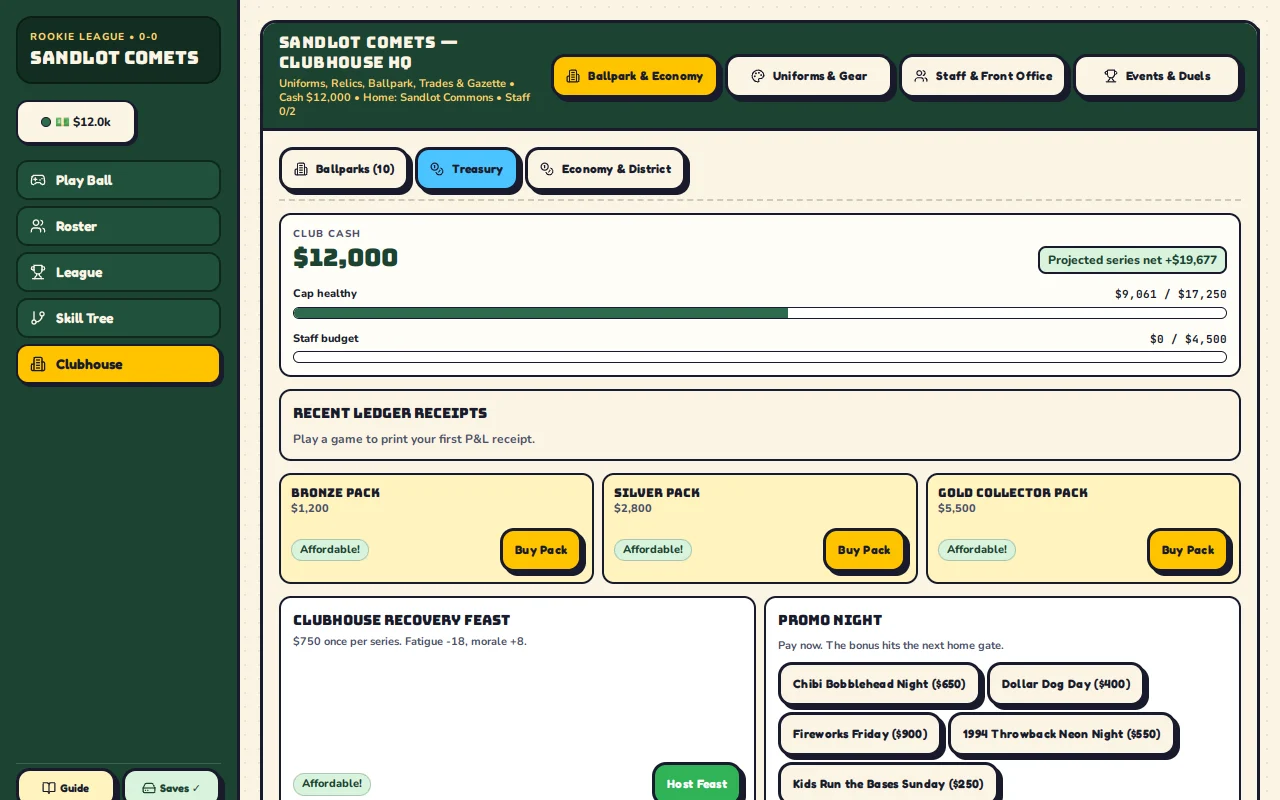
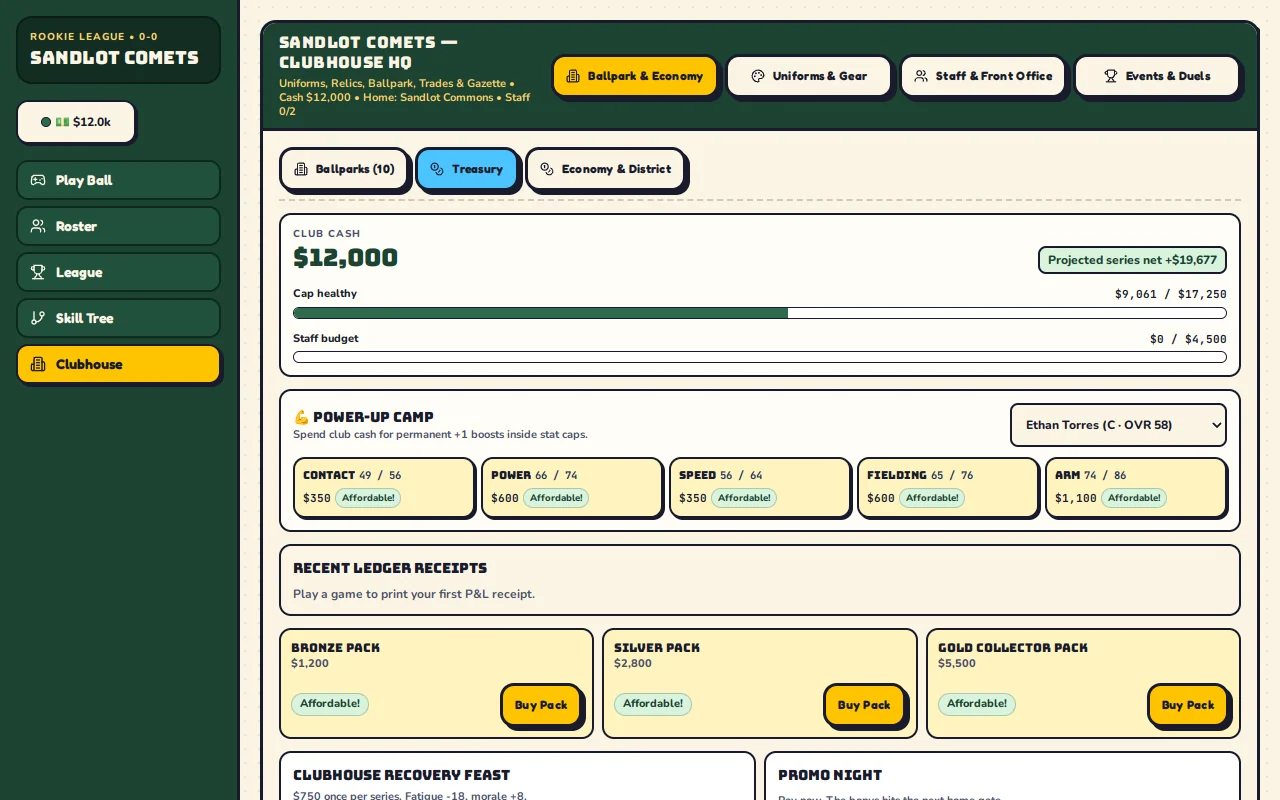
Finish Round 3 visual polish, 4-viewport audit, screenshots, and docs (TASK-113..120)

Changed region(s): [[0.2188, 0.5, 0.9688, 1.0], [0.0, 0.9375, 0.1875, 1.0]]

diff --git a/tests/e2e/councilVisualAudit.spec.ts b/tests/e2e/councilVisualAudit.spec.ts
@@ -80,10 +80,13 @@ test.describe('Council Cross-Device Visual Audit (TASK-101)', () => {
 
     // Confirm Swing button locks with non-shifting label + aria-busy until the play completes
     const swingBtn = page
-      .getByRole('button', { name: /^(Swing|Throw Pitch|Lay down bunt|Send Runner|Steal & Swing \(2K\))$/i })
+      .getByRole('button', {
+        name: /^(Swing|Throw Pitch|Throw|Lay down bunt|Send Runner|Steal & Swing \(2K\))(\s*·\s*1-Pitch)?$/i,
+      })
       .first();
     await expectMinTapTarget(swingBtn, 44);
     const unlockedLabel = await swingBtn.innerText();
+    expect(unlockedLabel).toMatch(/1-Pitch/i);
     await swingBtn.click();
     await expect(swingBtn).toBeDisabled();
     await expect(swingBtn).toHaveAttribute('aria-busy', 'true');
@@ -144,12 +147,15 @@ test.describe('Council Cross-Device Visual Audit (TASK-101)', () => {
     await expectNoHorizontalOverflow(page, 390);
     await page.screenshot({ path: 'test-results/audit-390x844-05-tactics-drawer.png' });
 
-    // Toggle 1-Pitch Mode ON inside Tactics and fire deciding pitch -> sheet immediately auto-dismisses!
+    // Verify 1-Pitch Mode defaults ON in Simple Mode, toggles cleanly, and fires deciding pitch -> sheet immediately auto-dismisses!
     const onePitchToggle = tacticsSheet.getByTestId('arcade-one-pitch-toggle');
-    await onePitchToggle.click();
     await expect(onePitchToggle).toHaveAttribute('aria-pressed', 'true');
     const sheetPrimary = tacticsSheet.getByTestId('live-primary-pitch-btn');
     await expect(sheetPrimary).toContainText(/1-Pitch/i);
+    await onePitchToggle.click();
+    await expect(onePitchToggle).toHaveAttribute('aria-pressed', 'false');
+    await onePitchToggle.click();
+    await expect(onePitchToggle).toHaveAttribute('aria-pressed', 'true');
     await sheetPrimary.click();
     await expect(tacticsSheet).toHaveCount(0);
 
@@ -180,15 +186,27 @@ test.describe('Council Cross-Device Visual Audit (TASK-101)', () => {
     await expectNoHorizontalOverflow(page, 390);
     await page.screenshot({ path: 'test-results/audit-390x844-08-postgame-boxscore.png' });
 
-    // 7. Tap persistent mobile Cash Pill -> Club Treasury & Finances (TASK-108)
+    // 7. Tap persistent mobile Cash Pill -> Club Treasury & Power-Up Camp (TASK-108, TASK-115)
     await recap.getByRole('button', { name: /close/i }).first().click();
     const mobileCashPill = page.getByTestId('club-cash-pill-mobile');
     await expect(mobileCashPill).toBeVisible({ timeout: 10_000 });
     await expectMinTapTarget(mobileCashPill, 44);
     await mobileCashPill.click();
     await expect(page.getByTestId('club-treasury-panel')).toBeVisible({ timeout: 10_000 });
+    await expect(page.getByTestId('power-up-camp')).toBeVisible();
     await expectNoHorizontalOverflow(page, 390);
     await page.screenshot({ path: 'test-results/audit-390x844-11-club-treasury.png' });
+
+    // 8. Check Skill Trees (Career Talent Cap + Build Identity, TASK-114) & League Boss Badge (TASK-120)
+    await page.getByRole('button', { name: /skill tree/i }).first().click();
+    await expect(page.getByTestId('career-talent-budget')).toBeVisible({ timeout: 10_000 });
+    await expectNoHorizontalOverflow(page, 390);
+    await page.screenshot({ path: 'test-results/audit-390x844-13-skill-trees.png' });
+
+    await page.getByRole('button', { name: /league/i }).first().click();
+    await expect(page.getByTestId('standings-boss-badge').first()).toBeVisible({ timeout: 10_000 });
+    await expectNoHorizontalOverflow(page, 390);
+    await page.screenshot({ path: 'test-results/audit-390x844-14-league-boss.png' });
   });
 
   test('844x390 phone landscape: Live Landscape 2-column ballpark and action layout', async ({
@@ -206,7 +224,9 @@ test.describe('Council Cross-Device Visual Audit (TASK-101)', () => {
 
     const field = page.getByTestId('live-game-3d-canvas');
     const primaryAction = page
-      .getByRole('button', { name: /^(Swing|Throw Pitch|Lay down bunt)$/i })
+      .getByRole('button', {
+        name: /^(Swing|Throw Pitch|Throw|Lay down bunt)(\s*·\s*1-Pitch)?$/i,
+      })
       .or(page.getByRole('button', { name: /next pitch/i }))
       .first();
     await expect(field).toBeInViewport({ ratio: 1 });
@@ -254,12 +274,19 @@ test.describe('Council Cross-Device Visual Audit (TASK-101)', () => {
     await expectNoHorizontalOverflow(page, 1280);
     await page.screenshot({ path: 'test-results/audit-1280x800-10-desktop-broadcast.png' });
 
-    // Open Club Treasury directly via persistent Desktop Cash Pill (TASK-108)
+    // Open Club Treasury directly via persistent Desktop Cash Pill (TASK-108, TASK-115)
     const desktopCashPill = page.getByTestId('club-cash-pill-desktop');
     await expect(desktopCashPill).toBeVisible();
     await desktopCashPill.click();
     await expect(page.getByTestId('club-treasury-panel')).toBeVisible({ timeout: 10_000 });
+    await expect(page.getByTestId('power-up-camp')).toBeVisible();
     await expectNoHorizontalOverflow(page, 1280);
     await page.screenshot({ path: 'test-results/audit-1280x800-12-desktop-treasury.png' });
+
+    // Open Skill Trees on Desktop to inspect Career Talent Budget & Manager Legacy (TASK-114)
+    await page.getByRole('button', { name: /skill tree/i }).first().click();
+    await expect(page.getByTestId('career-talent-budget')).toBeVisible({ timeout: 10_000 });
+    await expectNoHorizontalOverflow(page, 1280);
+    await page.screenshot({ path: 'test-results/audit-1280x800-15-desktop-skills.png' });
   });
 });

diff --git a/src/ui/components/LiveGameCanvas.tsx b/src/ui/components/LiveGameCanvas.tsx
@@ -227,9 +227,7 @@ export function LiveGameCanvas({
       {broadcastSlip ? (
         <div
           data-testid="live-broadcast-slip-slot"
-          className={`pointer-events-none select-none absolute left-2 right-14 z-[15] flex justify-start ${
-            showStretchCue ? 'bottom-8' : 'bottom-2'
-          }`}
+          className="pointer-events-none select-none absolute bottom-1.5 left-2 right-14 z-[15] flex justify-start"
         >
           {broadcastSlip}
         </div>
@@ -238,7 +236,7 @@ export function LiveGameCanvas({
       {showStretchCue ? (
         <span
           data-testid="from-the-stretch-cue"
-          className="pointer-events-none absolute bottom-1.5 left-2 z-20 px-2 py-0.5 rounded-full border border-[#F2CB75] bg-[#132c36]/90 text-[#FFF7E4] text-[10px] font-extrabold tracking-wide shadow-sm"
+          className="pointer-events-none absolute top-2 right-14 z-20 px-2 py-0.5 rounded-full border border-[#F2CB75] bg-[#132c36]/90 text-[#FFF7E4] text-[10px] font-extrabold tracking-wide shadow-sm"
         >
           ⚾ From the Stretch
         </span>

diff --git a/README.md b/README.md
@@ -85,19 +85,25 @@ At Brickyard Classic, the manual scoreboard sits in the 37-foot Emerald Wall in 
 
 In **Tactics**, choose when **Smart Watch** should pause for you, including a particular hitter, the tying run reaching base, or a tiring starter. The **Sandlot Gazette** calls selected career matchups. Between innings, the out-of-town board posts a final from another scheduled game in your tier.
 
-### Behind-the-catcher batting, stretch pitching, frame-locked audio, 1-pitch mode & living club treasury
+### Behind-the-catcher batting, Baseball Stars & HardBall III upgrades, capped RPG skill trees & living club treasury
 
-When your club is batting, the default camera sits right behind the catcher looking out to the mound, and the **Swing** / **Throw Pitch** controls stay locked with a subtle progress sweep until each pitch, swing, bunt, and catcher throwback finishes. Pitchers step cleanly onto their lead foot from both cameras, automatically pitch **From the Stretch** with painted slide-step poses and runner glances whenever baserunners are aboard, visibly shake off catcher signs, and settle smoothly back onto the rubber after receiving the catcher’s return throw. Every sound effect (`bat_crack`, `bunt_tap`, `glove_pop`, post-mitt `strikeout_punch`, return-throw catch, steals, and HR fireworks) is frame-locked to the Three.js playback clock with synchronous mobile audio unlock.
+When your club is batting, the default camera sits right behind the catcher looking out to the mound, and the **Swing** / **Throw Pitch** controls stay locked with a subtle progress sweep until each pitch, swing, bunt, and catcher throwback finishes. Pitchers step cleanly onto their lead foot from both cameras, automatically pitch **From the Stretch** with painted slide-step poses and runner glances whenever baserunners are aboard, visibly shake off catcher signs, fire snap **1B/2B Pickoff Throws** (with runner dive-backs and steal-jump suppression), and glide all seven fielders into **Live 3D Defensive Shifts** (`Standard`, `Infield In`, `No Doubles`, `Bunt Defense`). Outfielders leap over the yellow fence rail for **Wall-Climb HR Robberies (`ROBBED!!`)**, infielders kick up chalk on **Diving Web Gems (`WEB GEM!`)**, and non-blocking **90s TV Broadcast Lower-Third Stat Slips** flash batter lines and career milestones along the bottom edge of the diamond. Every sound effect (`bat_crack`, `bunt_tap`, `glove_pop`, post-mitt `strikeout_punch`, return-throw catch, steals, pickoffs, and HR fireworks) is frame-locked to the Three.js playback clock with synchronous mobile audio unlock.
 
-Base stealing works like real baseball—every steal runs on a real pitched ball (updating balls, strikes, pitch counts, and Ball 4 walks), surfaces as a **1-tap `💨 Steal` chip** right on the mobile dock (auto-dismissing the Tactics sheet when sending runners), and automatically lets the batter **protect the plate with 2 strikes (`Steal & Swing (2K)`)** or run a **Hit & Run**. Want ultra-fast games? Toggle **⚡ 1-Pitch Mode** to simulate realistic multi-pitch counts and fatigue underneath while watching every full 3D deciding pitch. Between games, tap the persistent **💵 Cash Pill** to open your **Club Treasury**—tracking real settled P&L receipts from tickets, concessions, sponsors, TV deals, district plaza buildings, persisted Promo Nights, and roster/staff payroll under a **15% Soft-Cap Luxury Tax Buffer**, plus in-season contract extensions, a **1994 Foil Pack Cash Shop**, and a **Clubhouse Recovery Feast**. League rosters follow realistic tier age pyramids from `18–19` Rookie Sandlot prospects up to `25–35` Mini Major League veterans.
+Base stealing works like real baseball—every steal runs on a real pitched ball (updating balls, strikes, pitch counts, and Ball 4 walks), surfaces as a **1-tap `💨 Steal` chip** right on the mobile dock (auto-dismissing the Tactics sheet when sending runners), and automatically lets the batter **protect the plate with 2 strikes (`Steal & Swing (2K)`)** or run a **Hit & Run**. **⚡ 1-Pitch Mode** is now ON by default in Simple Mode (while Full Live stays Pitch-by-Pitch unless toggled), simulating realistic multi-pitch counts and fatigue underneath while playing every full 3D deciding pitch.
 
-| Behind-the-catcher on a compact phone | Phone landscape cockpit | Unified Tactics sheet (1-Pitch + Steal) |
+Off the field, **Capped Build-Identity Skill Trees** make every career choice matter—players have a hard **Career Talent Cap (`12 / 14 / 18 SP` out of `41 SP`)** and exclusive Tier-3 Capstone locks (balanced players build broad Tier 1–2 depth; specialists max one signature lane; even All-Stars can never 100% every tree), mirrored by a **`9 / 15 SP` Manager Legacy Cap** with free same-visit Undo and `$2,000` Offseason-only Career Retrain. Tap the persistent **💵 Cash Pill** to open **Club Treasury**—featuring a *Baseball Stars*-inspired **💪 Pay-Cash Power-Up Camp** (escalating `$350–$3,800` permanent `+1` boosts inside stat caps), settled P&L receipts under a **15% Soft-Cap Luxury Tax Buffer**, in-season contract extensions, a **1994 Foil Pack Cash Shop**, and a **Clubhouse Recovery Feast**—while battling **6 Iconic Tier Rival Boss Clubs** (*Sandlot Legends* through *Empire Dynasty*) for `$1,000–$8,000` showdown bounties.
+
+| Behind-the-catcher + 90s TV stat slip (360×640) | Phone landscape cockpit (844×390) | Unified Tactics sheet (1-Pitch + Steal) |
 | --- | --- | --- |
-| ![Behind-the-catcher batting view on a 360 by 640 phone with From the Stretch, 1-tap Steal, Contact, Power, Bunt, Audio toggle and Swing above the fold](./docs/screenshots/council-mobile-batting.webp) | ![Two-column behind-the-catcher landscape layout at 844 by 390 with Stretch delivery, 1-tap Steal and Swing fully in view](./docs/screenshots/council-landscape-batting.webp) | ![Unified mobile Tactics bottom sheet with Smart Watch, 1-Pitch Mode, Sound, Timing, Steal, Hit and Run and approach controls](./docs/screenshots/council-tactics-sheet.webp) |
+| ![Behind-the-catcher batting view on a 360 by 640 phone with 90s TV Broadcast Stat Slip, From the Stretch, 1-tap Steal, Contact, Power, Bunt and Swing 1-Pitch above the fold](./docs/screenshots/council-mobile-batting.webp) | ![Two-column behind-the-catcher landscape layout at 844 by 390 with TV Stat Slip, Stretch delivery, 1-tap Steal and Swing 1-Pitch fully in view](./docs/screenshots/council-landscape-batting.webp) | ![Unified mobile Tactics bottom sheet with Smart Watch, 1-Pitch Mode, Sound, Timing, Steal, Hit and Run and approach controls](./docs/screenshots/council-tactics-sheet.webp) |
 
-| Mobile Club Treasury & Cash HUD | Desktop Broadcast Studio | Desktop Club Treasury & Salary Cap |
+| Mobile Treasury & Power-Up Camp | Desktop Broadcast Studio | Desktop Treasury & Power-Up Camp |
 | --- | --- | --- |
-| ![Mobile Club Treasury showing persistent Cash HUD pill, Salary Cap meter, itemized post-game P&L receipt and 1994 Foil Pack Cash Shop](./docs/screenshots/council-mobile-treasury.webp) | ![1280 by 800 Desktop Broadcast Studio pairing live Bunt stance and painted Stretch pitching with Cash HUD, 1-Pitch Mode, Steal and Hype controls](./docs/screenshots/council-desktop-studio.webp) | ![Desktop Club Treasury with Salary Cap meter, Staff Budget, 1994 Foil Pack Cash Shop, Clubhouse Recovery Feast and Persisted Promo Nights](./docs/screenshots/council-desktop-treasury.webp) |
+| ![Mobile Club Treasury showing persistent Cash HUD pill, Salary Cap meter and Baseball Stars Pay-Cash Power-Up Camp](./docs/screenshots/council-mobile-treasury.webp) | ![1280 by 800 Desktop Broadcast Studio pairing live Bunt stance, TV Broadcast Stat Slip, Sandlot Commons landmark pines, Cash HUD, 1-Pitch Mode and Hype controls](./docs/screenshots/council-desktop-studio.webp) | ![Desktop Club Treasury with Salary Cap meter, 5-stat Pay-Cash Power-Up Camp, 1994 Foil Pack Cash Shop and Clubhouse Recovery Feast](./docs/screenshots/council-desktop-treasury.webp) |
+
+| Capped Skill Tree & Build Identity (Mobile) | Capped Skill Tree & Build Identity (Desktop) | League Standings & Iconic Boss Rival |
+| --- | --- | --- |
+| ![Mobile Player Skill Tree showing Career Talent 0 of 12 SP cap bar, Build Identity badge and Heritage Mastery](./docs/screenshots/council-mobile-skills.webp) | ![Desktop Player Skill Tree showing Career Talent capacity bar, Build Identity badge, Heritage Mastery and Tier 1 Foundation nodes](./docs/screenshots/council-desktop-skills.webp) | ![Mobile League Standings highlighting the Ironwood Knights Rookie Boss Rival badge and 6-tier pyramid](./docs/screenshots/council-mobile-league-boss.webp) |
 
 ## Core Pillars
 

diff --git a/docs/TASKS.md b/docs/TASKS.md
@@ -293,5 +293,11 @@
 | TASK-110 | DONE | Authentic League-Tier Player Age Distributions: tier-calibrated initial & FA age curves (`Rookie` predominantly `18–19` with rare `26+`, smooth climb through Low-A/High-A/AA/AAA to `Majors` predominantly `25–35` with very rare `18–19` prodigies & `40+` farewell legends) while preserving intentional `Veterans` preset identity. |
 | TASK-111 | DONE | One-Pitch At-Bat Mode: persistent `onePitchMode` toggle simulating full realistic pitch counts/fatigue underneath and playing the complete 3D deciding pitch (with Third-Base Coach send/hold decisions, steal-aware single-pitch interruption, and play-lock guard) for fast mobile games. |
 | TASK-112 | DONE | Convert 3,000 Manga Portrait PNGs to WebP: batch-converted all 3,001 display portraits + `ballpark.webp` (`851.1 MB` → `385.3 MB`, **54.7% smaller / `465.8 MB` saved**), kept lossless PNG 3D sprite atlases & PWA icons, updated loader glob/tests/Workbox ignores, and visually spot-checked WebP crispness. |
+| TASK-113 | DONE | 1-Pitch Mode Default in Simple Mode: fresh saves & Simple/Guided mode default `onePitchMode` to ON (while Full Live defaults Pitch-by-Pitch until explicitly toggled), persisted cleanly via `onePitchModeExplicit` in `userPreferences.ts` without clobbering legacy saves. |
+| TASK-114 | DONE | Capped Build-Identity Skill Trees (Player + Manager): hard Career SP Talent Caps (`12` standard / `14` rookie & above-avg / `18` All-Star or Lv 12+ breakout out of `41 SP`) + Exclusive Tier-3 Capstone Locks (max 1 Primary capstone; All-Stars can pair 1 Primary + 1 Fielder), live Build Identity badges & capacity meters on cards & trees, session-local free `↩ Undo Last`, `$2,000` Offseason-only Career Retrain (1/career), and Manager Career Cap (`9 / 15 SP`, max 1 Tier-4 capstone). |
+| TASK-115 | DONE | Baseball Stars Pay-Cash Power-Up Camp (`powerUpCamp.ts` + `ClubTreasuryPanel.tsx`): spend Club Cash (`$`) for targeted permanent `+1` role-specific stat boosts across escalating price tiers (`$350` → `$3,800`), strictly respecting `statCaps` & `totalRatingBudget` with itemized ledger receipts. |
 | TASK-116 | DONE | All eight pitches break into the called pocket with mirrored movement for left-handers. Live play and previews use five pitch-family trail colors and a softer reduced-motion palette. |
+| TASK-117 | DONE | Wall-Climb HR Robberies, Diving Web Gems, 3D Pickoff Playback & Live 3D Shifting Fielders (`fieldingHighlights.ts`, `outfieldPlay.ts`, `plateAndSteals.ts`, `gameSceneController.ts`, `playAudioTimeline.ts`): vertical fence-clearing HR robbery leaps + close-up wall camera + `ROBBED!!` starburst, diving web gems with glove-contact turf dust + `WEB GEM!`, 1B/2B pickoff snap-throws with runner dive-back & umpire call, and smooth 7-fielder gliding into selected defensive shifts. |
+| TASK-118 | DONE | Engine 1B/2B Pickoffs, Organic HR Robbery / Web-Gem Hooks, Shift Coordinates & Live Pickoff UI: authentic no-pitch-count pickoff calls (`pickoff_out` / `pickoff_safe` reducing runner steal jump up to `-12%`), 1-tap `👀 Pickoff` defense chip on Guided/Full Live/Tactics, organic elite-range outfielder HR robbery & `webGem` signals in `pitchResolver.ts`, and pure `defensiveShiftCoords.ts`. |
 | TASK-119 | DONE | All ten parks have distinct outfield landmarks and matching press-box sculptures. Bayfront right-field home runs land in the water with a fountain and a splash-hit call. |
+| TASK-120 | DONE | Iconic Themed Rival Boss Clubs & 90s TV Broadcast Lower-Third Stat Slips (`bossClubs.ts`, `broadcastSlips.ts`, `BroadcastStatSlip.tsx`): 6 flagship tier Boss Rivals (*Sandlot Legends* → *Empire Dynasty*) with `👑 BOSS` standings badges, pre-game showdown callouts & `$1,000–$8,000` cash bounties, plus non-blocking `pointer-events-none` 90s TV lower-third batter/milestone stat slips with `2.8s` auto-fade and `defensiveShift` forwarding into `LiveGameCanvas`. |

diff --git a/PLAN.md b/PLAN.md
@@ -64,8 +64,14 @@ TASK-088 keeps the Opening Day Customize button at the 44-pixel touch minimum on
 - [x] TASK-110 calibrates initial and free-agent player ages to the 6-tier baseball pyramid (`Rookie Sandlot` predominantly `18–19` with rare `26+` up to `Mini Major League` predominantly `25–35` with very rare `18–19` prodigies and `40+` farewell legends) while preserving intentional `Veterans` preset identity.
 - [x] TASK-111 adds **One-Pitch At-Bat Mode** (`stepOnePitchAtBat` + persisted `onePitchMode` toggle) simulating realistic multi-pitch counts and pitcher endurance underneath while playing the complete 3D deciding pitch (including Third-Base Coach decisions and immediate steal handling).
 - [x] TASK-112 converts all 3,001 manga player portraits and the ballpark panorama print from PNG to crisp WebP (`851.1 MB` → `385.3 MB`, saving **`465.8 MB` / 54.7%**) while keeping lossless PNG 3D sprite atlases and PWA icons.
+- [x] TASK-113 makes **1-Pitch Mode** the smart default in Simple Mode (`onePitchModeExplicit` preserves user toggles and legacy saves while keeping Full Live pitch-by-pitch by default).
+- [x] TASK-114 enforces meaningful RPG build trade-offs across both **Player Skill Trees** (`12 / 14 / 18 SP` Career Talent caps out of `41 SP`, exclusive Tier-3 Capstone locks, live Build Identity badges, free same-visit `↩ Undo Last`, and `$2,000` Offseason-only Career Retrain) and the **Manager Skill Tree** (`9 / 15 SP` cap, max 1 Tier-4 capstone).
+- [x] TASK-115 adds the *Baseball Stars*-inspired **Pay-Cash Power-Up Camp** (`powerUpCamp.ts` + `ClubTreasuryPanel.tsx`) letting clubs invest Club Cash (`$350`–`$3,800` escalating tiers) for permanent `+1` role-specific stat upgrades inside `statCaps` and `totalRatingBudget` with itemized ledger receipts.
 - [x] TASK-116 gives all eight pitches distinct movement into the mitt. Live play and Design Lab previews share handed break, pitch-family trail colors and reduced-motion styling.
+- [x] TASK-117 choreographs signature *Baseball Stars* **Wall-Climb HR Robberies** (vertical fence-clearing leaps, wall close-up cam, `ROBBED!!` starburst), **Diving Web Gems** (glove-contact turf dust & `WEB GEM!`), **1B/2B Pickoff Snap-Throws** (stretch spin, runner dive-back, tag & umpire call), and smooth **Live 3D Shifting Fielders** across all alignments.
+- [x] TASK-118 wires authentic **1B/2B Pickoffs** (no ball/strike count change, `pickoff_safe` reducing runner steal jump), 1-tap `👀 Pickoff` live defense controls, organic elite-outfielder HR robbery & diving web-gem triggers in `pitchResolver.ts`, and pure 3D shift coordinate presets (`defensiveShiftCoords.ts`).
 - [x] TASK-119 gives each of the ten venues its own outfield landmark and matching press-box sculpture. Bayfront right-field home runs land on the cove surface and trigger a fountain and splash-hit call.
+- [x] TASK-120 adds **6 Iconic Tier Rival Boss Clubs** (*Sandlot Legends*, *Neon Ninjas*, *Dustbowl Outlaws*, *Iron Titans*, *Midnight Express*, *Empire Dynasty*) with `👑 BOSS` standings badges, pre-game showdown callouts & `$1,000–$8,000` cash bounties, plus non-blocking **90s TV Broadcast Lower-Third Stat Slips** (`BroadcastStatSlip.tsx`) surfacing live batter lines, Build Identity tags, and milestones.
 
 ## The 10X Vision — What Makes This a Cult Classic
 
